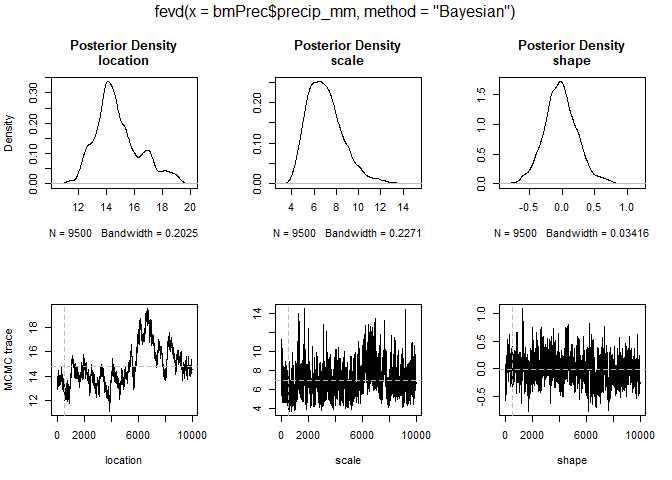
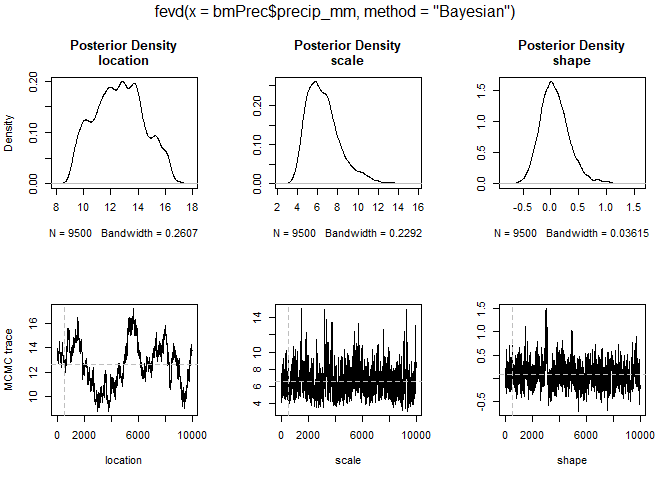
EVA2

diff --git a/5_Time-series/5.1-EVA_Extreme_Values.md b/5_Time-series/5.1-EVA_Extreme_Values.md
@@ -251,31 +251,31 @@ Bayesian_mm
     ## 
     ##  Acceptance Rates:
     ## log.scale     shape 
-    ## 0.7264453 0.7567514 
+    ## 0.7383477 0.7570514 
     ## fevd(x = bmPrec$precip_mm, method = "Bayesian")
     ## 
     ## [1] "Quantiles of MCMC Sample from Posterior Distribution"
     ## 
-    ##                2.5% Posterior Mean     97.5%
-    ## location 12.3068126    14.81552333 18.554865
-    ## scale     4.5241264     7.01090258 10.765494
-    ## shape    -0.5079474    -0.01906188  0.527521
+    ##                2.5% Posterior Mean      97.5%
+    ## location  9.4293461    12.61825932 16.1217542
+    ## scale     4.1396131     6.57538750 10.7235492
+    ## shape    -0.3817502     0.07719818  0.6874506
     ## 
     ## 
     ##  Estimated parameter covariance matrix.
-    ##             location   log.scale       shape
-    ## location   2.5038774  0.99511615 -0.11126959
-    ## log.scale  0.9951162  2.58980815 -0.02546093
-    ## shape     -0.1112696 -0.02546093  0.06376453
+    ##              location  log.scale       shape
+    ## location   3.27356854  0.5453241 -0.09645994
+    ## log.scale  0.54532409  2.8416612 -0.11435925
+    ## shape     -0.09645994 -0.1143592  0.07329492
     ## 
-    ##  DIC =  488.2028
+    ##  DIC =  488.6348
 
 ``` r
 postmode(Bayesian_mm)
 ```
 
-    ##     location        scale        shape 
-    ## 13.430253231  5.558045167  0.009473133
+    ##    location       scale       shape 
+    ## 13.37491054  5.52344923  0.04287774
 
 ``` r
 plot(Bayesian_mm)
@@ -300,10 +300,10 @@ ci(Bayesian_mm, alpha=0.05, type="parameter")
     ## 
     ## [1] "Quantiles of MCMC Sample from Posterior Distribution"
     ## 
-    ##                2.5% Posterior Mean     97.5%
-    ## location 12.3068126    14.81552333 18.554865
-    ## scale     4.5241264     7.01090258 10.765494
-    ## shape    -0.5079474    -0.01906188  0.527521
+    ##                2.5% Posterior Mean      97.5%
+    ## location  9.4293461    12.61825932 16.1217542
+    ## scale     4.1396131     6.57538750 10.7235492
+    ## shape    -0.3817502     0.07719818  0.6874506
 
 ``` r
 return.level(Bayesian_mm, return.period=c(2,5,10,20,30,50,100), do.ci=TRUE)
@@ -314,19 +314,19 @@ return.level(Bayesian_mm, return.period=c(2,5,10,20,30,50,100), do.ci=TRUE)
     ## [1] "Quantiles of MCMC Sample from Posterior Distribution"
     ## 
     ##                    2.5% Posterior Mean     97.5%
-    ## 2-year level   14.37394       17.37878  21.83242
-    ## 5-year level   20.05255       25.46021  36.29846
-    ## 10-year level  23.35012       31.27151  53.44062
-    ## 20-year level  26.05579       37.56645  77.44658
-    ## 30-year level  27.37449       41.67990  96.25734
-    ## 50-year level  28.77763       47.54697 126.46344
-    ## 100-year level 30.28314       57.29691 181.00017
+    ## 2-year level   11.57801       15.05942  19.07599
+    ## 5-year level   17.74707       23.30395  32.82384
+    ## 10-year level  21.48711       29.87928  51.08831
+    ## 20-year level  24.68096       37.84450  81.05041
+    ## 30-year level  26.21661       43.66089 107.06611
+    ## 50-year level  27.92071       53.00135 151.95310
+    ## 100-year level 29.82155       71.86123 237.16282
 
 ``` r
 pextRemes(Bayesian_mm, c(32, 34, 36, 38, 40), lower.tail = FALSE)
 ```
 
-    ## [1] 0.07327124 0.05437926 0.04018078 0.02957771 0.02170088
+    ## [1] 0.06313242 0.04944514 0.03884603 0.03062124 0.02422208
 
 ``` r
 mrlplot(bmPrec$precip_mm)
@@ -1171,31 +1171,31 @@ Bayesian_temp
     ## 
     ##  Acceptance Rates:
     ## log.scale     shape 
-    ## 0.4407882 0.4065813 
+    ## 0.4376875 0.4089818 
     ## fevd(x = bmTemp$air_temp, method = "Bayesian")
     ## 
     ## [1] "Quantiles of MCMC Sample from Posterior Distribution"
     ## 
     ##                2.5% Posterior Mean       97.5%
-    ## location 32.3762138     32.8263458 33.24324335
-    ## scale     1.6756311      1.9679573  2.33840975
-    ## shape    -0.3943515     -0.2544553 -0.09447118
+    ## location 32.3651030     32.8064467 33.23681977
+    ## scale     1.6856039      1.9809525  2.34300513
+    ## shape    -0.3827439     -0.2538968 -0.09686861
     ## 
     ## 
     ##  Estimated parameter covariance matrix.
     ##               location    log.scale        shape
-    ## location   0.048543406  0.001981757 -0.006009397
-    ## log.scale  0.001981757  0.029171534 -0.007197620
-    ## shape     -0.006009397 -0.007197620  0.005644359
+    ## location   0.050417513 -0.000725246 -0.005149458
+    ## log.scale -0.000725246  0.027990818 -0.006686713
+    ## shape     -0.005149458 -0.006686713  0.005473253
     ## 
-    ##  DIC =  1500.125
+    ##  DIC =  1500.305
 
 ``` r
 postmode(Bayesian_temp)
 ```
 
     ##   location      scale      shape 
-    ## 32.8346553  1.9517773 -0.2762545
+    ## 32.8461294  1.9369294 -0.2694784
 
 ``` r
 plot(Bayesian_temp)
@@ -1221,9 +1221,9 @@ ci(Bayesian_temp, alpha=0.05, type="parameter")
     ## [1] "Quantiles of MCMC Sample from Posterior Distribution"
     ## 
     ##                2.5% Posterior Mean       97.5%
-    ## location 32.3762138     32.8263458 33.24324335
-    ## scale     1.6756311      1.9679573  2.33840975
-    ## shape    -0.3943515     -0.2544553 -0.09447118
+    ## location 32.3651030     32.8064467 33.23681977
+    ## scale     1.6856039      1.9809525  2.34300513
+    ## shape    -0.3827439     -0.2538968 -0.09686861
 
 ``` r
 return.level(Bayesian_temp, return.period=c(2,5,10,20,30,50,100), do.ci=TRUE)
@@ -1234,16 +1234,16 @@ return.level(Bayesian_temp, return.period=c(2,5,10,20,30,50,100), do.ci=TRUE)
     ## [1] "Quantiles of MCMC Sample from Posterior Distribution"
     ## 
     ##                    2.5% Posterior Mean    97.5%
-    ## 2-year level   33.05845       33.51465 33.94589
-    ## 5-year level   34.79786       35.27869 35.78634
-    ## 10-year level  35.67647       36.19965 36.81275
-    ## 20-year level  36.35101       36.93737 37.77658
-    ## 30-year level  36.66965       37.30721 38.32390
-    ## 50-year level  37.00634       37.72114 38.98074
-    ## 100-year level 37.37493       38.20555 39.83327
+    ## 2-year level   33.05653       33.49940 33.93377
+    ## 5-year level   34.78870       35.27627 35.78088
+    ## 10-year level  35.68438       36.20444 36.82685
+    ## 20-year level  36.35598       36.94813 37.81098
+    ## 30-year level  36.68467       37.32101 38.34926
+    ## 50-year level  37.02622       37.73836 39.01445
+    ## 100-year level 37.39672       38.22676 39.82698
 
 ``` r
 pextRemes(Bayesian_temp, c(32, 34, 36, 38, 40), lower.tail = FALSE)
 ```
 
-    ## [1] 7.751558e-01 4.068786e-01 1.167770e-01 1.252182e-02 2.736896e-05
+    ## [1] 7.712384e-01 4.047073e-01 1.170884e-01 1.291589e-02 3.662115e-05
